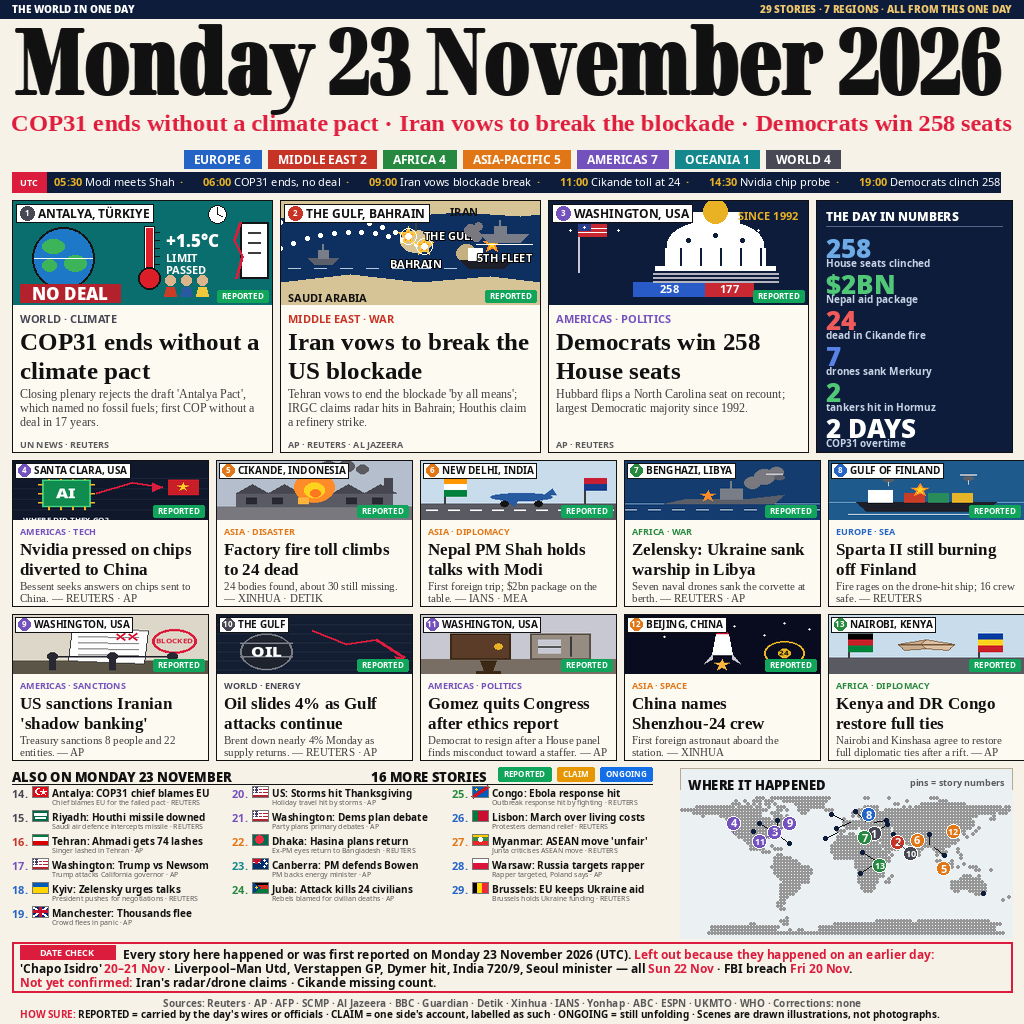
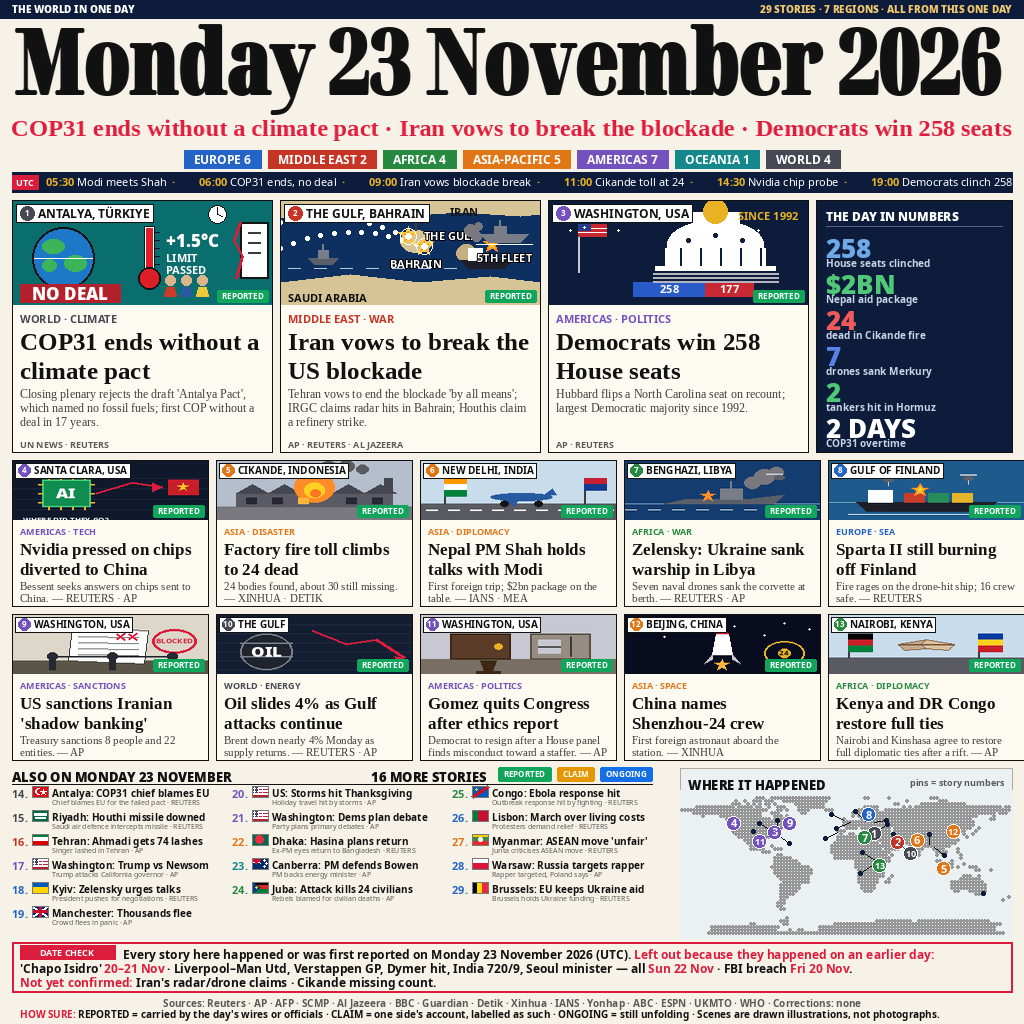
news-image-20261123 v3.7: smaller red UTC box, UTC band edge-to-edge like top-1, kicker lowered clear of masthead 'y'

Changed region(s): [[0.4062, 0.0938, 0.9688, 0.1875], [0.0, 0.0938, 0.375, 0.1875], [0.9688, 0.1562, 1.0, 0.1875]]

diff --git a/draw.py b/draw.py
@@ -1110,8 +1110,11 @@ def build():
     # to fill the full width left-to-right (MX..RX, 1000px).
     # Rendered on a layer at LiberationSerif-Bold 23 (natural
     # width 975px), cropped to its ink, then stretched to exactly
-    # 1000px wide and pasted so the ink top sits at y=114 (the
-    # masthead ink ends at 110; the region bar is at 150).
+    # 1000px wide and pasted so the ink top sits at y=120 (the
+    # masthead ink ends at 110 ("y" descenders to 114); the region
+    # bar is at 150. v3.7: kicker lowered 5px (ink top y=120) so
+    # there is a clear gap under the "y" descender — the v3.5/3.6
+    # paste at y=114 put the kicker ink right against it.
     kicker = ("COP31 ends without a climate pact · Iran vows to "
               "break the blockade · Democrats win 258 seats")
     klayer = Image.new("RGBA", (1100, 60), (0, 0, 0, 0))
@@ -1119,7 +1122,7 @@ def build():
     kd.text((0, 0), kicker, font=TY.kickbold, fill=SCARLET + (255,))
     kb = klayer.getbbox()
     kcrop = klayer.crop(kb).resize((1000, kb[3] - kb[1]), Image.LANCZOS)
-    img.paste(kcrop, (MX, 114), kcrop)
+    img.paste(kcrop, (MX, 119), kcrop)
     # ---- region bar 150-168: seven SEPARATE boxes, 18px tall with
     # 12px text (bagarte's size), each sized to its text with
     # wider padding, ~7px white gaps, the whole row centred
@@ -1144,13 +1147,15 @@ def build():
     # which is why it read as "just a red UTC box". A small RED box
     # for "UTC" at the left, then the six time+event pairs (gold
     # bold times, white events, middot separators) spread across
-    # the band. The band runs MX..1000 and never touches the right
-    # grey border line (RX=1012).
+    # the band. v3.7: the band runs MX..RX EDGE TO EDGE like
+    # bagarte (the v3.6 "ends 12px short of the grey border" is
+    # reversed on the user's order), and the red UTC box is
+    # SMALLER (26x14, centred in the band, was 34x20 full-height).
     tl_y = 172
     tl_h = 20
-    box(d, MX, tl_y, 1000, tl_y + tl_h, MIDNIGHT)
-    box(d, MX, tl_y, MX + 34, tl_y + tl_h, SCARLET)
-    txt(d, (MX + 17, tl_y + tl_h // 2), "UTC", TY.src, "white",
+    box(d, MX, tl_y, RX, tl_y + tl_h, MIDNIGHT)
+    box(d, MX, tl_y + 3, MX + 26, tl_y + 17, SCARLET)
+    txt(d, (MX + 13, tl_y + 10), "UTC", TY.src, "white",
         anchor="mm")
     timeline = [("05:30", "Modi meets Shah"),
                 ("06:00", "COP31 ends, no deal"),
@@ -1160,7 +1165,7 @@ def build():
                 ("19:00", "Democrats clinch 258")]
     # Natural width of all items + separators; the slack is spread
     # evenly into the five gaps (remainder to the first gaps) so
-    # the last item ends exactly at x=1000.
+    # the last item ends exactly at RX (edge to edge, v3.7).
     sep = "  ·  "
     sepw = int(d.textlength(sep, font=TY.tl))
     nat = 0
@@ -1168,11 +1173,11 @@ def build():
         nat += int(d.textlength(tt, font=TY.tl))
         nat += int(d.textlength(" " + ev, font=TY.tlev))
     nat += sepw * (len(timeline) - 1)
-    extra = (1000 - (MX + 42)) - nat
+    extra = (RX - (MX + 34)) - nat
     ngap = len(timeline) - 1
     gap = extra // ngap if ngap else 0
     rem = extra % ngap if ngap else 0
-    tx = MX + 42
+    tx = MX + 34
     for i, (tt, ev) in enumerate(timeline):
         txt(d, (tx, tl_y + tl_h // 2), tt, TY.tl, GILT, anchor="lm")
         tx += int(d.textlength(tt, font=TY.tl))
